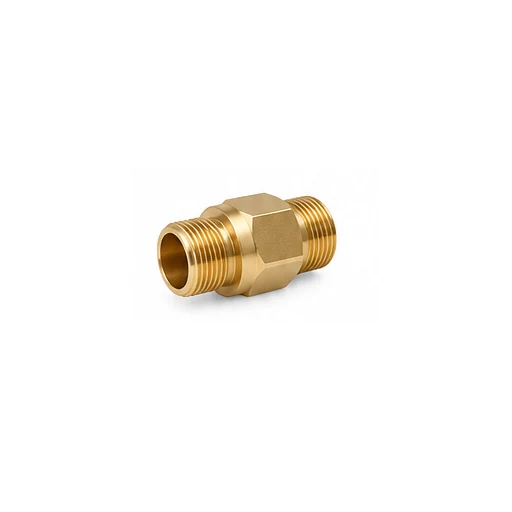
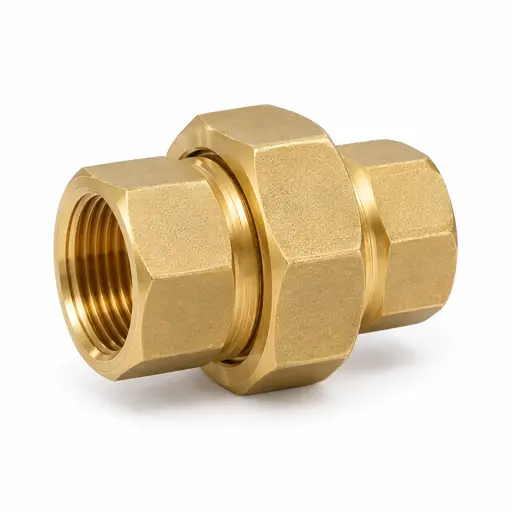
fix: unify material category thumbnails

diff --git a/frontend/webApp/src/react-app/pages/AddMaterialPage/materialImageResolver.js b/frontend/webApp/src/react-app/pages/AddMaterialPage/materialImageResolver.js
@@ -164,18 +164,18 @@ const CATEGORY_TYPE_IMAGES = {
 };
 
 const EXTRA_CATEGORY_IMAGES = {
-  cu: '/materials/cu-pipe.webp',
+  cu: '/materials/category-cu.webp',
   ppr: '/materials/category-ppr.webp',
   mlcp: '/materials/category-mlcp.webp',
   pex: '/materials/category-pex.webp',
-  ht: '/materials/ht-pipe.webp',
+  ht: '/materials/category-ht.webp',
   kg: '/materials/category-kg.webp',
   steel: '/materials/category-steel.webp',
   brass: '/materials/category-brass.webp',
   valves: '/materials/category-valves.webp',
   geberit: '/materials/category-geberit.webp',
-  sanita: '/materials/sanita-wall-hung-wc.svg',
-  other: '/materials/other-material.svg',
+  sanita: '/materials/category-sanita.webp',
+  other: '/materials/category-other.webp',
 };
 
 function normalize(value) {
